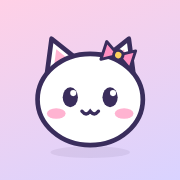
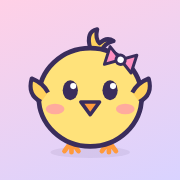
Deutsch Party: Alinka is a little chick; kinder voice and feedback
Chick avatar, mascot and icon. After a wrong answer a soft French voice
says something encouraging before the German answer; gentler sound.

Claude-Session: https://claude.ai/code/session_01U5Ca1THRTrEyLZhwZECMDQ

Changed region(s): [[0.1389, 0.1389, 0.8611, 0.8611]]

diff --git a/deutsch/app.js b/deutsch/app.js
@@ -18,7 +18,7 @@ const plural = (n, one, many) => n + ' ' + (n === 1 ? one : many);
 // ---------------------------------------------------------------- sauvegarde
 const KEY = 'deutschParty.v1';
 const DEFAULTS = () => ({
-  player: { name: 'Alinka', avatar: '🐱' },
+  player: { name: 'Alinka', avatar: '🐥' },
   settings: { sound: true, music: true, speak: true, qCount: 10, time: 20, level: 'auto', typing: true },
   stats: {}, persons: {}, history: [], stars: 0, games: 0, wins: 0, drawings: 0, pending: []
 });
@@ -29,6 +29,7 @@ function load() {
     const s = JSON.parse(localStorage.getItem(KEY) || 'null');
     if (s) { Object.assign(d, s); d.player = Object.assign(DEFAULTS().player, s.player); d.settings = Object.assign(DEFAULTS().settings, s.settings); }
   } catch (e) { /* rien */ }
+  if (!d.chick) { if (d.player.avatar === '🐱') d.player.avatar = '🐥'; d.chick = true; }
   return d;
 }
 function save() { try { localStorage.setItem(KEY, JSON.stringify(S)); } catch (e) { /* plein ou bloqué */ } }
@@ -86,7 +87,7 @@ const Snd = {
   },
   good() { [523, 659, 784, 1047].forEach((f, i) => this.tone(f, 0.2, 'triangle', 0.18, i * 0.07)); },
   almost() { [523, 659].forEach((f, i) => this.tone(f, 0.2, 'triangle', 0.15, i * 0.09)); },
-  bad() { this.tone(240, 0.25, 'sawtooth', 0.07); this.tone(180, 0.4, 'sawtooth', 0.07, 0.14); },
+  bad() { this.tone(523, 0.22, 'sine', 0.1); this.tone(440, 0.3, 'sine', 0.09, 0.16); },
   tick() { this.tone(1300, 0.05, 'square', 0.035); },
   pop() { this.tone(880, 0.07, 'sine', 0.07); },
   tap() { this.tone(600, 0.05, 'triangle', 0.08); },
@@ -112,19 +113,32 @@ const Music = {
   },
   stop() { clearInterval(this.timer); this.timer = null; }
 };
-function speak(text) {
+// Voix douces : on préfère une voix féminine « améliorée », un peu plus lente et plus aiguë.
+const SOFT = ['anna', 'petra', 'helena', 'marlene', 'vicki', 'katja', 'amélie', 'amelie', 'audrey', 'aurélie', 'aurelie', 'marie', 'céline', 'celine', 'virginie', 'sandy', 'shelley', 'flo'];
+const NOVELTY = /grandpa|grandma|rocko|eddy|reed|albert|bad news|bells|boing|bubbles|cellos|jester|organ|superstar|trinoids|whisper|wobble|zarvox|fred|junior|ralph|kathy/i;
+function pickVoice(lang) {
+  const vs = speechSynthesis.getVoices().filter(v => v.lang && v.lang.toLowerCase().startsWith(lang) && !NOVELTY.test(v.name));
+  const score = v => (/premium|enhanced|natural|neural/i.test(v.name) ? 10 : 0) + (SOFT.some(n => v.name.toLowerCase().includes(n)) ? 5 : 0) + (/^(de-de|fr-fr|fr-ch)/i.test(v.lang) ? 1 : 0);
+  return vs.sort((a, b) => score(b) - score(a))[0] || null;
+}
+function utter(text, lang) {
+  const u = new SpeechSynthesisUtterance(text);
+  u.lang = lang === 'fr' ? 'fr-FR' : 'de-DE';
+  const v = pickVoice(lang); if (v) u.voice = v;
+  u.rate = 0.82; u.pitch = 1.15; u.volume = 0.9;
+  return u;
+}
+// pre = petite phrase gentille en français dite avant la réponse allemande
+function speak(text, pre) {
   if (!S.settings.speak || !('speechSynthesis' in window) || !text) return;
   try {
     speechSynthesis.cancel();
-    const u = new SpeechSynthesisUtterance(text.replace(/_+/g, ''));
-    u.lang = 'de-DE';
-    const vs = speechSynthesis.getVoices();
-    const v = vs.find(x => /^de[-_]DE/i.test(x.lang)) || vs.find(x => /^de/i.test(x.lang));
-    if (v) u.voice = v;
-    u.rate = 0.88;
-    speechSynthesis.speak(u);
+    if (pre) speechSynthesis.speak(utter(pre, 'fr'));
+    speechSynthesis.speak(utter(text.replace(/_+/g, ''), 'de'));
   } catch (e) { /* pas de voix */ }
 }
+const KIND = ['Pas grave ! La bonne réponse, c\'est :', 'Ce n\'est pas grave, on apprend ! C\'est :', 'Presque ! Écoute bien :', 'Pas de souci ! On dit :'];
+const KIND_ALMOST = ['Presque ! Bravo, c\'est :', 'Tu y es presque ! C\'est :'];
 
 // ---------------------------------------------------------------- personnages
 const BOT_POOL = [
@@ -133,7 +147,7 @@ const BOT_POOL = [
   { name: 'Moka', em: '🐻', bg: '#f6e6da' }, { name: 'Pipou', em: '🐧', bg: '#e2f0ff' }, { name: 'Choupi', em: '🦊', bg: '#ffe6d6' },
   { name: 'Bao', em: '🐹', bg: '#fff0e0' }, { name: 'Koala', em: '🐨', bg: '#edf0f2' }, { name: 'Praline', em: '🐷', bg: '#ffe4ea' }
 ];
-const AVATARS = ['🐱', '🐰', '🐼', '🦄', '🦊', '🐻', '🐨', '🐹', '🐧', '🐸', '🐥', '🐶', '🐯', '🐮', '🐷', '🐙', '🦋', '🌸', '🍓', '🧁'];
+const AVATARS = ['🐥', '🐱', '🐰', '🐼', '🦄', '🦊', '🐻', '🐨', '🐹', '🐧', '🐸', '🐣', '🐶', '🐯', '🐮', '🐷', '🐙', '🦋', '🌸', '🍓', '🧁'];
 const NAMES_F = ['Lea', 'Mia', 'Laura', 'Emma', 'Nina', 'Sofia'];
 const NAMES_M = ['Tom', 'Luca', 'Max', 'Noah', 'Leo', 'Elias'];
 const CITIES = [{ de: 'Genf', fr: 'Genève' }, { de: 'Zürich', fr: 'Zurich' }, { de: 'Bern', fr: 'Berne' }, { de: 'Basel', fr: 'Bâle' }, { de: 'Luzern', fr: 'Lucerne' }, { de: 'München', fr: 'Munich' }];
@@ -142,15 +156,16 @@ const ROOMS = [{ de: 'Im Wohnzimmer', fr: 'Dans le salon' }, { de: 'Im Schlafzim
 function mascot() {
   return `<svg viewBox="0 0 120 120" aria-hidden="true">
 <ellipse cx="60" cy="113" rx="34" ry="5" fill="#3a2d5c" opacity=".08"/>
-<path d="M22 54 L27 16 L52 36 Z" fill="#fff" stroke="#3a2d5c" stroke-width="4" stroke-linejoin="round"/>
-<path d="M98 54 L93 16 L68 36 Z" fill="#fff" stroke="#3a2d5c" stroke-width="4" stroke-linejoin="round"/>
-<path d="M29 40 L31 25 L42 34 Z" fill="#ffb3d1"/><path d="M91 40 L89 25 L78 34 Z" fill="#ffb3d1"/>
-<ellipse cx="60" cy="68" rx="45" ry="39" fill="#fff" stroke="#3a2d5c" stroke-width="4"/>
-<ellipse cx="43" cy="66" rx="6.5" ry="8.5" fill="#3a2d5c"/><circle cx="45.5" cy="62.5" r="2.6" fill="#fff"/>
-<ellipse cx="77" cy="66" rx="6.5" ry="8.5" fill="#3a2d5c"/><circle cx="79.5" cy="62.5" r="2.6" fill="#fff"/>
-<ellipse cx="31" cy="80" rx="8" ry="4.5" fill="#ffb3d1"/><ellipse cx="89" cy="80" rx="8" ry="4.5" fill="#ffb3d1"/>
-<path d="M53 78 q3.5 4.5 7 0 q3.5 4.5 7 0" fill="none" stroke="#3a2d5c" stroke-width="3" stroke-linecap="round"/>
-<g transform="translate(84 30) rotate(18)"><path d="M0 0 L-13 -8 L-13 8 Z" fill="#ff8fc1" stroke="#3a2d5c" stroke-width="2.5" stroke-linejoin="round"/><path d="M0 0 L13 -8 L13 8 Z" fill="#ff8fc1" stroke="#3a2d5c" stroke-width="2.5" stroke-linejoin="round"/><circle r="4" fill="#ffd25e" stroke="#3a2d5c" stroke-width="2.5"/></g>
+<path d="M44 104 l-6 8 M44 104 l0 9 M44 104 l6 8 M76 104 l-6 8 M76 104 l0 9 M76 104 l6 8" stroke="#ff9a3c" stroke-width="4" stroke-linecap="round"/>
+<path d="M60 24 q-4 -14 6 -16 q-2 8 2 12 q6 -6 12 -2 q-8 2 -10 8" fill="#ffd25e" stroke="#3a2d5c" stroke-width="3.5" stroke-linejoin="round"/>
+<ellipse cx="60" cy="66" rx="44" ry="42" fill="#ffe27a" stroke="#3a2d5c" stroke-width="4"/>
+<path d="M18 70 q-12 -6 -8 -20 q10 4 14 12" fill="#ffd25e" stroke="#3a2d5c" stroke-width="3.5" stroke-linejoin="round"/>
+<path d="M102 70 q12 -6 8 -20 q-10 4 -14 12" fill="#ffd25e" stroke="#3a2d5c" stroke-width="3.5" stroke-linejoin="round"/>
+<ellipse cx="43" cy="60" rx="6.5" ry="8.5" fill="#3a2d5c"/><circle cx="45.5" cy="56.5" r="2.6" fill="#fff"/>
+<ellipse cx="77" cy="60" rx="6.5" ry="8.5" fill="#3a2d5c"/><circle cx="79.5" cy="56.5" r="2.6" fill="#fff"/>
+<ellipse cx="30" cy="76" rx="8" ry="4.5" fill="#ffab9e"/><ellipse cx="90" cy="76" rx="8" ry="4.5" fill="#ffab9e"/>
+<path d="M52 70 L68 70 L60 81 Z" fill="#ff9a3c" stroke="#3a2d5c" stroke-width="3" stroke-linejoin="round"/>
+<g transform="translate(86 34) rotate(18)"><path d="M0 0 L-12 -8 L-12 8 Z" fill="#ff8fc1" stroke="#3a2d5c" stroke-width="2.5" stroke-linejoin="round"/><path d="M0 0 L12 -8 L12 8 Z" fill="#ff8fc1" stroke="#3a2d5c" stroke-width="2.5" stroke-linejoin="round"/><circle r="4" fill="#fff" stroke="#3a2d5c" stroke-width="2.5"/></g>
 </svg>`;
 }
 
@@ -604,14 +619,14 @@ function submit(value, timeout) {
     });
   }
   if (res === true) Snd.good(); else if (res === 'almost') Snd.almost(); else Snd.bad();
-  setTimeout(() => speak(q.say), 300);
+  setTimeout(() => speak(q.say, res === true ? '' : res === 'almost' ? rnd(KIND_ALMOST) : rnd(KIND)), 300);
   setTimeout(() => showFeedback(res, pts, why), 750);
 }
 
 const CHEERS = ['Bravo !', 'Super !', 'Génial !', 'Toll !', 'Prima !', 'Wunderbar !', 'Klasse !'];
 function showFeedback(res, pts, why) {
   const q = G.q;
-  const v = res === true ? { c: 'ok', e: rnd(['🎉', '🌟', '💖', '🥳']), t: rnd(CHEERS) } : res === 'almost' ? { c: 'almost', e: '🤏', t: 'Presque !' } : { c: 'ko', e: rnd(['🙈', '😿', '🫣']), t: 'Oups !' };
+  const v = res === true ? { c: 'ok', e: rnd(['🎉', '🌟', '💖', '🥳']), t: rnd(CHEERS) } : res === 'almost' ? { c: 'almost', e: '🤏', t: 'Presque !' } : { c: 'ko', e: rnd(['🤗', '🌱', '💛', '🐣']), t: rnd(['Pas grave !', 'On apprend !', 'Presque !']) };
   const all = everyone();
   const rows = all.map((p, i) => {
     const mv = p.prev > i ? '<span class="mv up">▲</span>' : p.prev < i ? '<span class="mv down">▼</span>' : '<span class="mv"></span>';
@@ -625,6 +640,7 @@ function showFeedback(res, pts, why) {
     ${G.me.streak >= 2 ? `<div class="pill" style="margin-top:6px">🔥 ${G.me.streak} bonnes réponses de suite !</div>` : ''}
     <div class="answer-line"><span>${q.answerHtml}</span><button class="say" data-a="say">🔊</button></div>
     ${why ? `<div class="muted" style="font-weight:700">${why}</div>` : ''}
+    ${res === false ? `<div style="font-weight:800;color:#8f78f0;margin-top:4px">${rnd(['Tu vas y arriver ! 💪', 'La prochaine fois, ce sera la bonne ! 🌈', 'Chaque erreur t\'aide à apprendre 💛'])}</div>` : ''}
     ${q.tip ? `<div class="tip">💡 ${q.tip}</div>` : ''}
     <div class="board">${rows}</div>
     <button class="btn big" style="width:100%" data-a="next">${last ? 'Résultats 🏆' : 'Suivant ▶'}</button></div>`;

diff --git a/deutsch/sw.js b/deutsch/sw.js
@@ -1,6 +1,6 @@
 // Garde une copie de Deutsch Party sur l'appareil pour qu'il marche sans internet.
 // Augmenter VERSION à chaque mise à jour (nouveaux mots, etc.).
-const VERSION = 'deutsch-v3';
+const VERSION = 'deutsch-v4';
 const FILES = ['./', 'index.html', 'app.js', 'scenes.js', 'words.js', 'manifest.webmanifest', 'icon-180.png', 'icon-192.png', 'icon-512.png'];
 
 self.addEventListener('install', (e) => {
